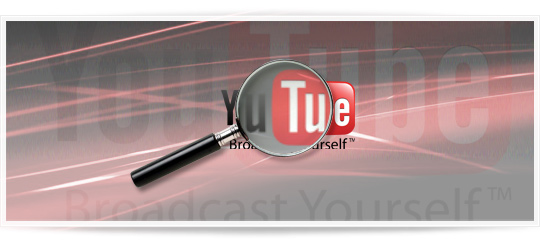
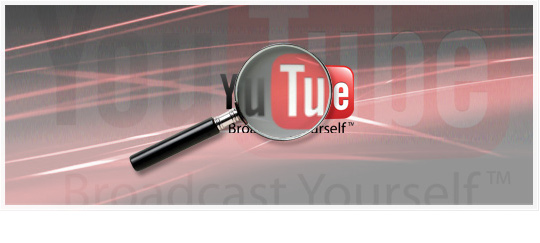
Small stuff + Added dynamic title + Small fixes + made sure the current menuitem gets the class active + fixed header image

diff --git a/public/css/style.css b/public/css/style.css
@@ -21,7 +21,11 @@ border-radius: 40px;
 }
 .header-image{
     width: 100%;
-    height: 300px;
+    height: 211px;
+    margin-top: 10px;
+    -moz-box-shadow: 2px 18px 17px -14px #000;
+    -webkit-box-shadow: 2px 18px 17px -14px #000;
+    box-shadow: 2px 18px 17px -14px #000;
 }
 footer{
     margin-top: 20px;

diff --git a/application/controller/profile.php b/application/controller/profile.php
@@ -16,40 +16,40 @@ class Profile extends Controller
      */
     public function index()
     {
-        require 'application/views/_templates/head.php';
-        require 'application/views/_templates/header.php';
+        echo $this->dressTemplate('/_templates/head', array('title'=> $this->pageTitle));     
+        echo $this->dressTemplate('/_templates/header', array('title'=> $this->pageTitle));    
         require 'application/views/profile/index.php';
         require 'application/views/_templates/footer.php';
     }
 
     public function myvideos()
     {
-        require 'application/views/_templates/head.php';
-        require 'application/views/_templates/header.php';
+        echo $this->dressTemplate('/_templates/head', array('title'=> $this->pageTitle));     
+        echo $this->dressTemplate('/_templates/header', array('title'=> $this->pageTitle));  
         require 'application/views/profile/myvideos.php';
         require 'application/views/_templates/footer.php';
     }
 
     public function messages()
     {
-        require 'application/views/_templates/head.php';
-        require 'application/views/_templates/header.php';
+        echo $this->dressTemplate('/_templates/head', array('title'=> $this->pageTitle));     
+        echo $this->dressTemplate('/_templates/header', array('title'=> $this->pageTitle));  
         require 'application/views/profile/messages.php';
         require 'application/views/_templates/footer.php';
     }
 
     public function logout()
     {
-        require 'application/views/_templates/head.php';
-        require 'application/views/_templates/header.php';
+        echo $this->dressTemplate('/_templates/head', array('title'=> $this->pageTitle));     
+        echo $this->dressTemplate('/_templates/header', array('title'=> $this->pageTitle));  
         require 'application/views/profile/logout.php';
         require 'application/views/_templates/footer.php';
     }
 
     public function login()
     {
-        require 'application/views/_templates/head.php';
-        require 'application/views/_templates/header.php';
+        echo $this->dressTemplate('/_templates/head', array('title'=> $this->pageTitle));     
+        echo $this->dressTemplate('/_templates/header', array('title'=> $this->pageTitle));  
         require 'application/views/profile/login.php';
         require 'application/views/_templates/footer.php';
     }

diff --git a/application/libs/controller.php b/application/libs/controller.php
@@ -9,14 +9,15 @@ class Controller
      * @var null Database Connection
      */
     public $db = null;
-
+    public $pageTitle = '';
     /**
      * Whenever a controller is created, open a database connection too. The idea behind is to have ONE connection
      * that can be used by multiple models (there are frameworks that open one connection per model).
      */
-    function __construct()
+    function __construct($pageTitleIn='no title')
     {
         $this->openDatabaseConnection();
+        $this->pageTitle=$pageTitleIn;
     }
 
     /**
@@ -48,5 +49,15 @@ class Controller
         require 'application/models/' . strtolower($model_name) . '.php';
         // return new model (and pass the database connection to the model)
         return new $model_name($this->db);
+    }
+
+    public function dressTemplate($templateName, array $data = array()){
+        // takes first array level of data and generates variables with that key name
+        extract($data);
+        // capture all templating output using a buffer
+        ob_start();
+        require('application/views' . $templateName . '.php');
+        $htmlString = ob_get_clean();
+        return $htmlString;
     }
 }

diff --git a/application/views/_templates/header.php b/application/views/_templates/header.php
@@ -22,9 +22,9 @@
                     <!-- Collection of nav links, forms, and other content for toggling -->
                     <div id="navbarCollapse" class="collapse navbar-collapse">
                         <ul class="nav navbar-nav">
-                            <li class="active"><a href="<?php echo URL; ?>">Home</a></li>
-                            <li><a href="<?php echo URL; ?>videos">Videos</a></li>
-                            <li class="dropdown">
+                            <li class="<?php if(strtolower($title)=='home') echo 'active'?>"><a href="<?php echo URL; ?>">Home</a></li>
+                            <li class="<?php if(strtolower($title)=='videos') echo 'active'?>"><a href="<?php echo URL; ?>videos">Videos</a></li>
+                            <li class="dropdown <?php if(strtolower($title)=='profile') echo 'active'?>">
                                 <a data-toggle="dropdown" class="dropdown-toggle" href="#">My Profile <b class="caret"></b></a>
                                 <ul role="menu" class="dropdown-menu">
                                     <li><a href="<?php echo URL; ?>profile/myvideos">My videos</a></li>

diff --git a/application/libs/application.php b/application/libs/application.php
@@ -32,7 +32,7 @@ class Application
             // if so, then load this file and create this controller
             // example: if controller would be "car", then this line would translate into: $this->car = new car();
             require './application/controller/' . $this->url_controller . '.php';
-            $this->url_controller = new $this->url_controller();
+            $this->url_controller = new $this->url_controller($this->url_controller);
 
             // check for method: does such a method exist in the controller ?
             if (method_exists($this->url_controller, $this->url_action)) {

diff --git a/application/views/_templates/head.php b/application/views/_templates/head.php
@@ -3,7 +3,13 @@
     <head>
         <meta charset="utf-8">
         <meta http-equiv="X-UA-Compatible" content="IE=edge">
-        <title>Sharing Is Caring * Home</title>
+        <title>
+            <?php if(isset($title) && $title):?>
+                <?php echo ucfirst($title) . ' &middot; Sharing is Caring' ;?>
+            <?php else:?>
+                <?php echo 'Sharing is Caring';?>
+            <?php endif;?>
+        </title>
         <meta name="description" content="">
         <meta name="viewport" content="width=device-width, initial-scale=1.0">
         <!-- css -->

diff --git a/application/controller/videos.php b/application/controller/videos.php
@@ -16,8 +16,8 @@ class Videos extends Controller
      */
     public function index()
     {
-        require 'application/views/_templates/head.php';
-        require 'application/views/_templates/header.php';
+        echo $this->dressTemplate('/_templates/head', array('title'=> $this->pageTitle)); 
+        echo $this->dressTemplate('/_templates/header', array('title'=> $this->pageTitle));  
         require 'application/views/videos/index.php';
         require 'application/views/_templates/footer.php';
     }

diff --git a/application/controller/home.php b/application/controller/home.php
@@ -16,8 +16,8 @@ class Home extends Controller
      */
     public function index()
     {
-        require 'application/views/_templates/head.php';
-        require 'application/views/_templates/header.php';
+        echo $this->dressTemplate('/_templates/head', array('title'=> 'Home'));     
+        echo $this->dressTemplate('/_templates/header', array('title'=> 'Home'));  
         require 'application/views/home/index.php';
         require 'application/views/_templates/footer.php';
     }

diff --git a/application/views/profile/login.php b/application/views/profile/login.php
@@ -1,6 +1,10 @@
 <div class="row">
     <div class="col-sm-8 col-sm-offset-1">
-    	<h3>Login with your favorite social account!</h3>
+    	<h2>Login with your favorite social account</h2>
+    	<h4>Your account is safe with us!</h4>
+    	<small>Only spam if we are hurting for cash</small>
+    	
+    	<br>
     	<div id="oa_social_login_container"></div>
     </div>
 </div>
